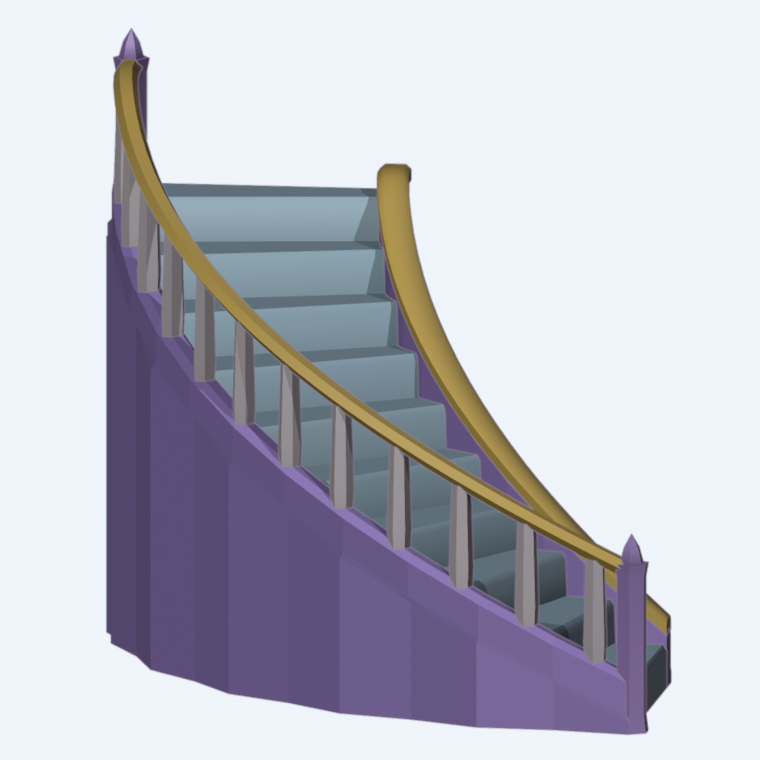
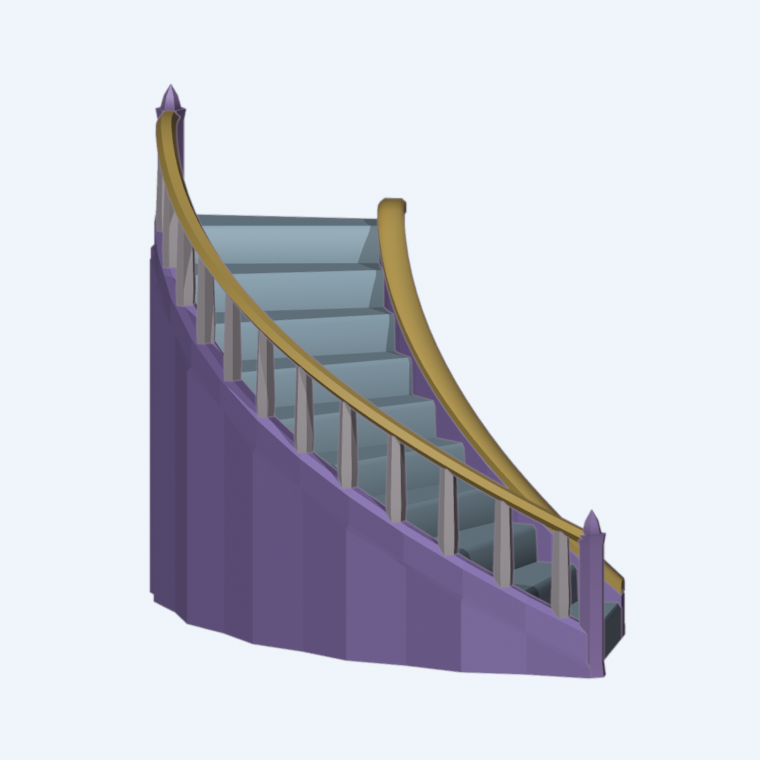
hotel_render: a per-shot frame padding, so the staircase fits in its own review render
`frame()` sizes the ortho view off the asset's largest single dimension,
which crops anything whose diagonal is much longer than that. A quarter-turn
staircase is 4.4 m in three directions at once and lost both newels at the
default 1.22. The default is unchanged, so every other shot is byte-identical.

Claude-Session: https://claude.ai/code/session_01BJHhmqvhccFFTUT8YTongf

Changed region(s): [[0.1211, 0.0303, 0.9079, 0.9684]]

diff --git a/art/blend/hotel_render.py b/art/blend/hotel_render.py
@@ -148,6 +148,10 @@ OMIT = {
 
 # file stem -> (collection, camera azimuth in degrees off the front, elevation)
 # Azimuth 0 looks straight along +Y (at the asset's front face, which is −Y).
+# An optional fifth field widens the frame: `frame()` sizes the ortho view off
+# the asset's largest single dimension, which crops anything whose diagonal is
+# much longer than that — a quarter-turn staircase is 4.4 m in three directions
+# at once and lost its newels at the default 1.22.
 SHOTS = [
     ("tower", "hotel-tower", 34.0, 24.0),
     ("tower-front", "hotel-tower", 0.0, 8.0),
@@ -173,11 +177,11 @@ SHOTS = [
     # looks from focus + (+X, +Y, +Z) at 38° of pitch; the game's +Z is
     # Blender's −Y, so +45° of azimuth here puts the camera at (+X, −Y), which
     # is the same corner. This is the shot that says whether the sweep reads.
-    ("staircase", "hotel-stair", 45.0, 36.0),
+    ("staircase", "hotel-stair", 45.0, 36.0, 1.6),
     # …and a low one from the foot of the flight, which is the only angle that
     # shows the rake: strings, handrail and coping should be three parallel
     # straight lines, and any tread out of step shows up as a kink in them.
-    ("staircase-rake", "hotel-stair", 8.0, 10.0),
+    ("staircase-rake", "hotel-stair", 8.0, 10.0, 1.45),
 ]
 
 
@@ -219,7 +223,7 @@ def configure() -> None:
         obj.color = linear_rgba(COLOURS.get(obj.name, 0xCCCCCC))
 
 
-def frame(objects, azimuth_deg: float, elevation_deg: float, camera) -> None:
+def frame(objects, azimuth_deg: float, elevation_deg: float, camera, pad: float = 1.22) -> None:
     lo = Vector((1e9, 1e9, 1e9))
     hi = Vector((-1e9, -1e9, -1e9))
     for obj in objects:
@@ -244,7 +248,7 @@ def frame(objects, azimuth_deg: float, elevation_deg: float, camera) -> None:
     camera.rotation_mode = "QUATERNION"
     camera.rotation_quaternion = direction.to_track_quat("Z", "Y")
     camera.data.type = "ORTHO"
-    camera.data.ortho_scale = size * 1.22
+    camera.data.ortho_scale = size * pad
 
 
 def main() -> None:
@@ -258,7 +262,8 @@ def main() -> None:
     bpy.context.scene.camera = camera
 
     print("\nhotel_render")
-    for stem, coll_name, azimuth, elevation in SHOTS:
+    for stem, coll_name, azimuth, elevation, *rest in SHOTS:
+        pad = rest[0] if rest else 1.22
         coll = bpy.data.collections.get(coll_name)
         if coll is None:
             raise SystemExit(f"hotel_render: no collection '{coll_name}' — rerun hotel_build.py")
@@ -270,7 +275,7 @@ def main() -> None:
             if obj.type == "MESH":
                 obj.location = layout.get(obj.name, (0.0, 0.0, 0.0))
         bpy.context.view_layer.update()
-        frame(shown, azimuth, elevation, camera)
+        frame(shown, azimuth, elevation, camera, pad)
         path = os.path.join(OUT, f"{stem}.png")
         bpy.context.scene.render.filepath = path
         bpy.ops.render.render(write_still=True)
